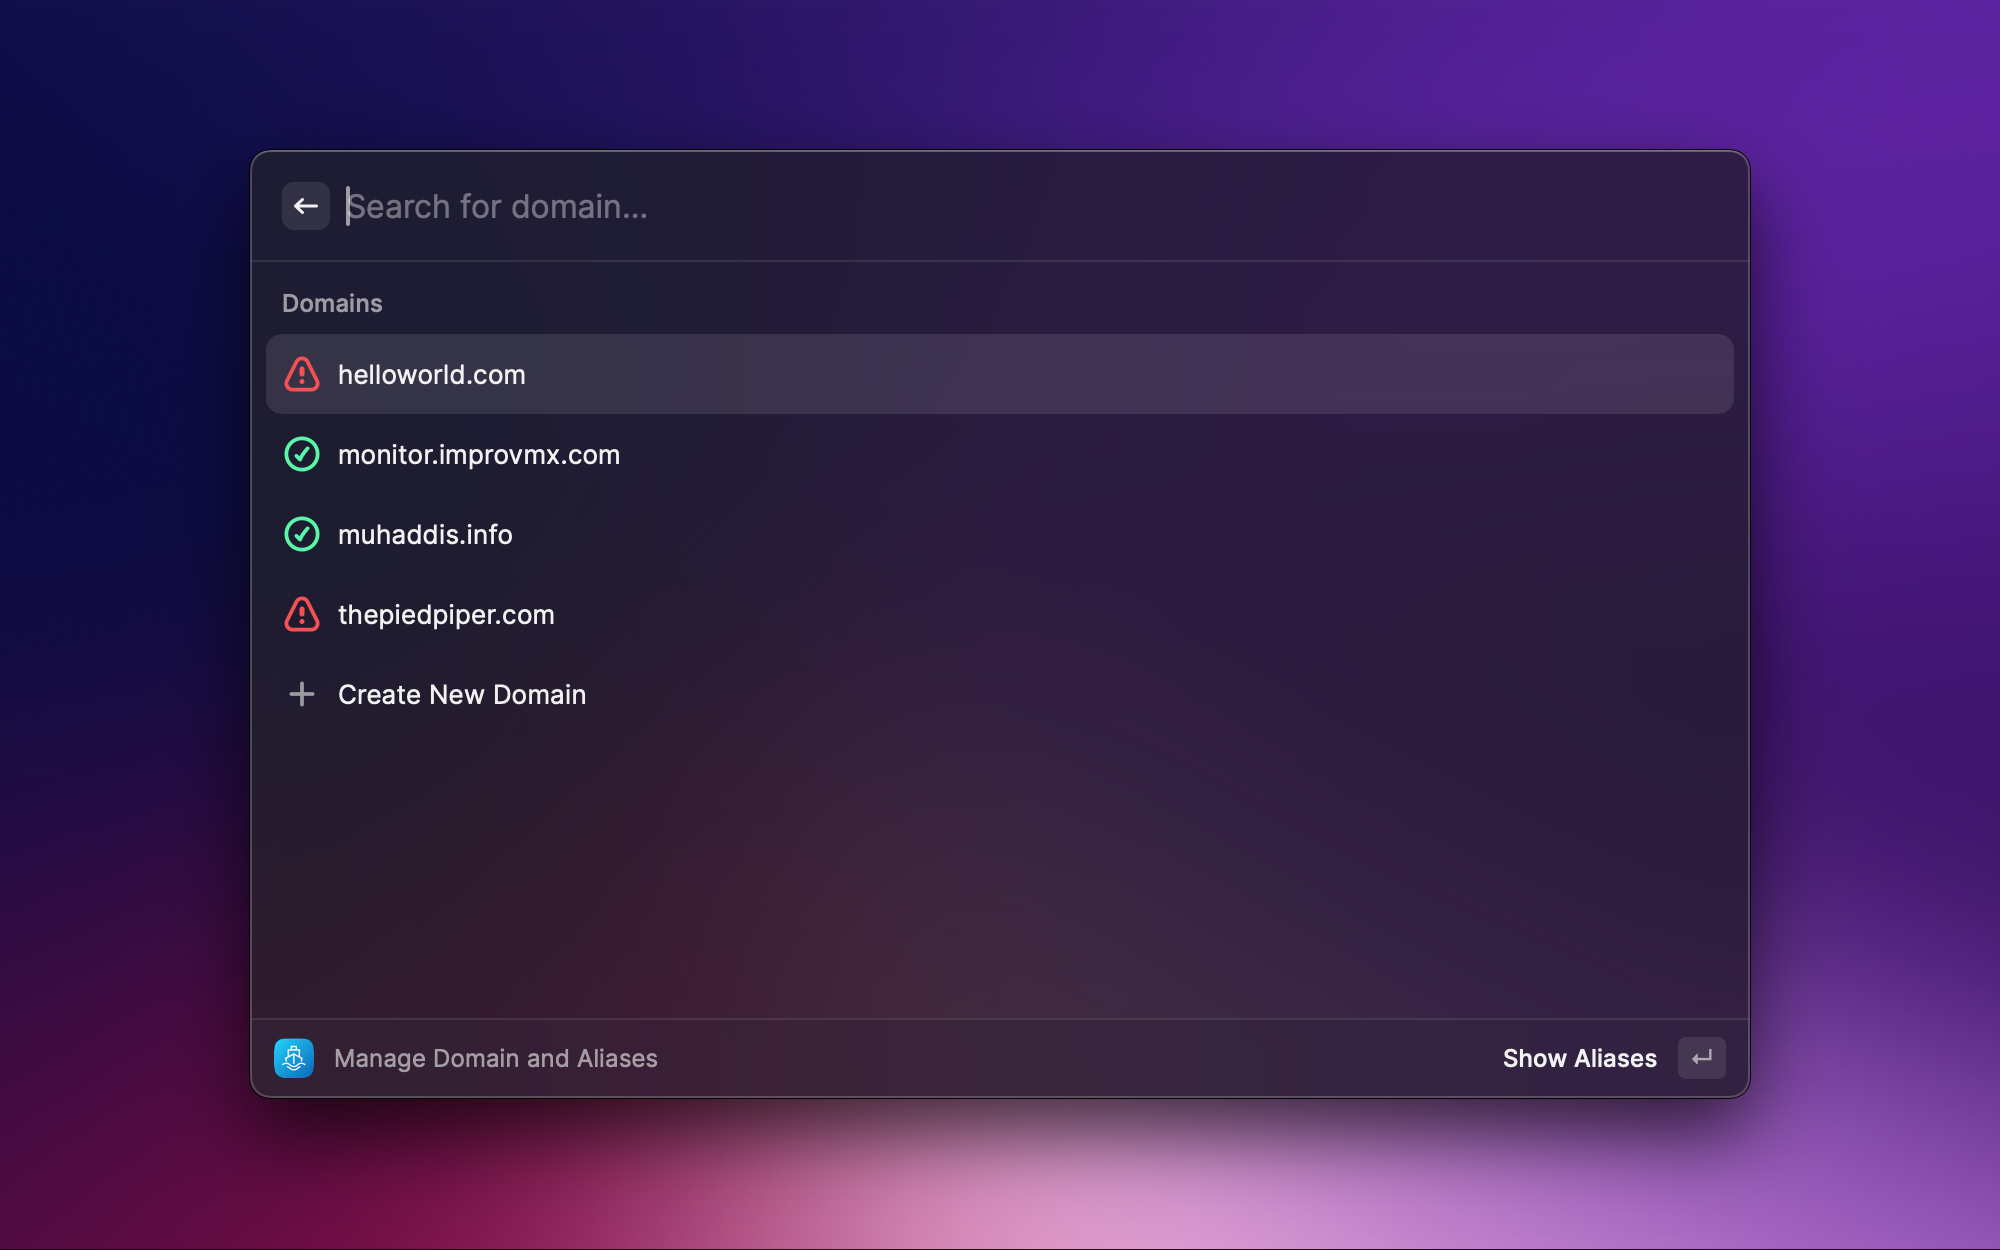
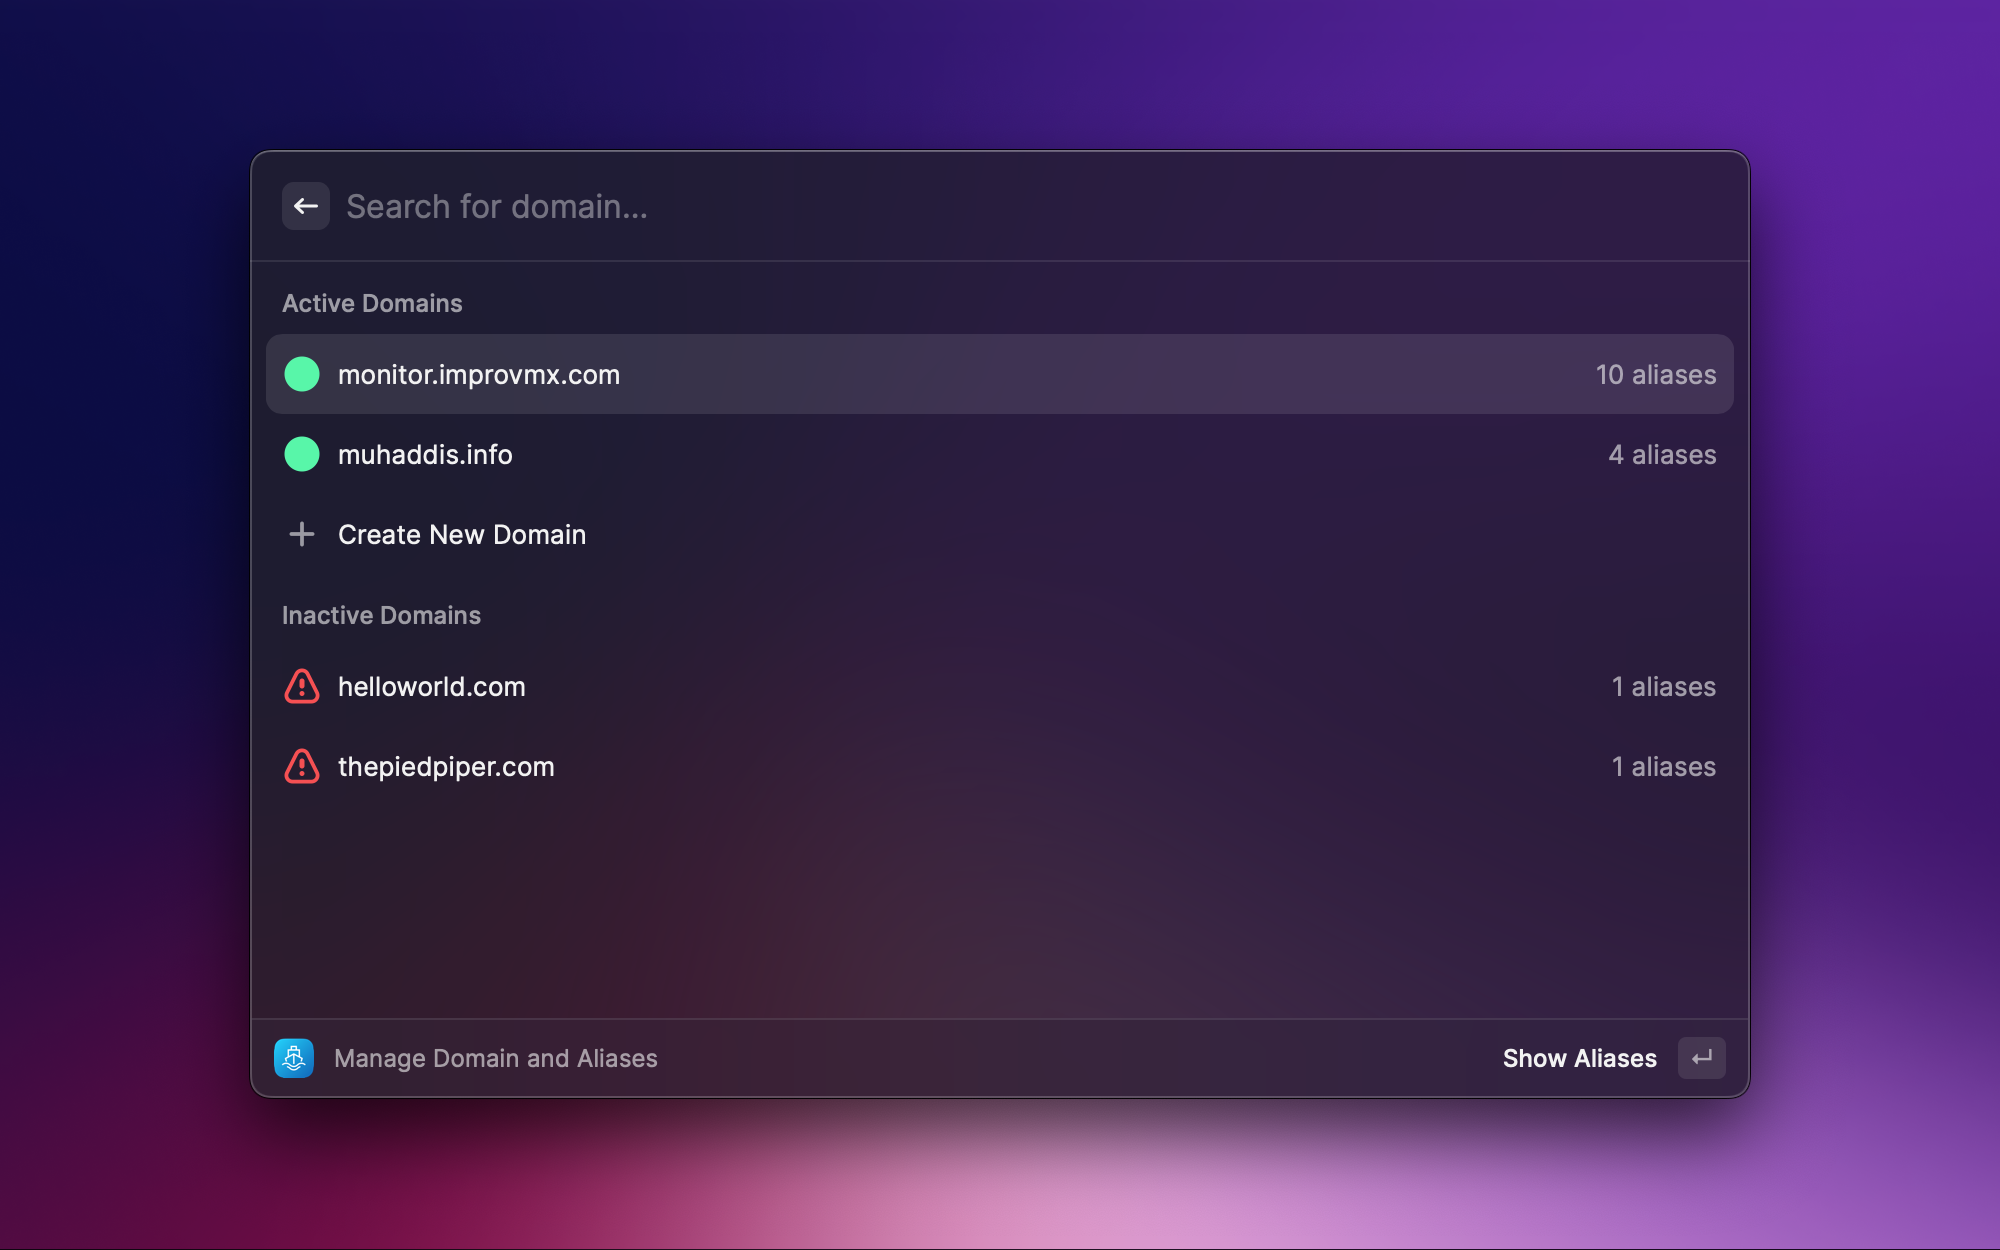
feat: improve interface and experienc

diff --git a/src/manage-domain-and-aliases.tsx b/src/manage-domain-and-aliases.tsx
@@ -21,10 +21,17 @@ interface Preferences {
   api_token: string;
 }
 
+interface Alias {
+  forward: string;
+  alias: string;
+  id: number;
+}
+
 interface Domain {
   display: string;
   banned?: boolean;
   active?: boolean;
+  aliases: Alias[];
 }
 
 interface Alias {
@@ -40,6 +47,7 @@ interface State {
   isRequireUpgrade: boolean;
   aliasView: boolean;
   aliases: Alias[];
+  selectedDomain: string;
 }
 
 export default function CreateMaskedEmail() {
@@ -50,6 +58,7 @@ export default function CreateMaskedEmail() {
       isRequireUpgrade: false,
       aliasView: false,
       aliases: [],
+      selectedDomain: "",
     }),
     API_TOKEN = getPreferenceValues<Preferences>().api_token,
     API_URL = "https://api.improvmx.com/v3/";
@@ -115,7 +124,7 @@ export default function CreateMaskedEmail() {
     }
 
     setState((prevState) => {
-      return { ...prevState, aliasView: true };
+      return { ...prevState, aliasView: true, selectedDomain: domain.display };
     });
 
     try {
@@ -157,20 +166,22 @@ export default function CreateMaskedEmail() {
     />
   ) : !state.aliasView ? (
     <List isLoading={state.domains === undefined} searchBarPlaceholder="Search for domain...">
-      <List.Section title="Domains">
-        {state.domains?.map((domain: Domain) => (
-          <List.Item
-            key={domain.display}
-            title={domain.display}
-            icon={domainIcon(domain)}
-            actions={
-              <ActionPanel>
-                <Action title="Show Aliases" onAction={() => showAliases(domain)} />
-              </ActionPanel>
-            }
-            // detail={<List.Item.Detail markdown={"Domain: **" + domain.display + "**"} />}
-          />
-        ))}
+      <List.Section title="Active Domains">
+        {state.domains
+          ?.filter((domain) => domain.active)
+          .map((domain: Domain) => (
+            <List.Item
+              key={domain.display}
+              title={domain.display}
+              icon={domainIcon(domain)}
+              accessories={[{ text: { value: domain.aliases.length.toString() + " aliases" } }]}
+              actions={
+                <ActionPanel>
+                  <Action title="Show Aliases" onAction={() => showAliases(domain)} />
+                </ActionPanel>
+              }
+            />
+          ))}
         {state.domains && (
           <List.Item
             title="Create New Domain"
@@ -188,14 +199,32 @@ export default function CreateMaskedEmail() {
           />
         )}
       </List.Section>
+      <List.Section title="Inactive Domains">
+        {state.domains
+          ?.filter((domain) => !domain.active)
+          .map((domain: Domain) => (
+            <List.Item
+              key={domain.display}
+              title={domain.display}
+              icon={domainIcon(domain)}
+              accessories={[{ text: { value: domain.aliases.length.toString() + " aliases" } }]}
+              actions={
+                <ActionPanel>
+                  <Action title="Show Aliases" onAction={() => showAliases(domain)} />
+                </ActionPanel>
+              }
+            />
+          ))}
+      </List.Section>
     </List>
   ) : (
-    <List isLoading={state.aliases === undefined} searchBarPlaceholder="Search for aliases...">
+    <List isLoading={state.aliases.length === 0} searchBarPlaceholder="Search for alias...">
       <List.Section title="Aliases">
         {state.aliases?.map((alias: Alias) => (
           <List.Item
             key={alias.alias}
-            title={alias.alias}
+            title={alias.alias + "@" + state.selectedDomain}
+            accessories={[{ text: { value: alias.forward } }]}
             actions={
               <ActionPanel>
                 <Action
@@ -207,10 +236,9 @@ export default function CreateMaskedEmail() {
                 />
               </ActionPanel>
             }
-            // detail={<List.Item.Detail markdown={"Forwarding email: **" + alias.forward + "**"} />}
           />
         ))}
-        {state.aliases !== undefined && (
+        {state.aliases.length !== 0 && (
           <List.Item
             title="Create New Alias"
             icon={{ source: Icon.Plus }}

diff --git a/src/create-masked-email-address.tsx b/src/create-masked-email-address.tsx
@@ -22,10 +22,17 @@ interface Preferences {
   default_domain: string;
 }
 
+interface Alias {
+  forward: string;
+  alias: string;
+  id: number;
+}
+
 interface Domain {
   display: string;
   banned?: boolean;
   active?: boolean;
+  aliases: Alias[];
 }
 
 interface State {
@@ -215,26 +222,49 @@ export default function CreateMaskedEmail() {
       }
     />
   ) : (
-    <List isLoading={state.domains === undefined} searchBarPlaceholder="Search for domain..." isShowingDetail>
-      <List.Section title="Domains">
-        {state.domains?.map((domain: Domain) => (
-          <List.Item
-            key={domain.display}
-            title={domain.display}
-            icon={domainIcon(domain)}
-            actions={
-              state.isRequireUpgrade ? (
-                upgradeAction
-              ) : (
-                <ActionPanel>
-                  <Action title="Create a Masked Email Address" onAction={() => handleMaskedEmail(domain)} />
-                  <Action title="Set default domain " onAction={openCommandPreferences} />
-                </ActionPanel>
-              )
-            }
-            // detail={<List.Item.Detail markdown={"Create masked email using **" + domain.display + "**"} />}
-          />
-        ))}
+    <List isLoading={state.domains === undefined} searchBarPlaceholder="Search for domain...">
+      <List.Section title="Active Domains">
+        {state.domains
+          ?.filter((domain) => domain.active)
+          .map((domain) => (
+            <List.Item
+              key={domain.display}
+              title={domain.display}
+              icon={domainIcon(domain)}
+              accessories={[{ text: { value: domain.aliases.length.toString() + " aliases" } }]}
+              actions={
+                state.isRequireUpgrade ? (
+                  upgradeAction
+                ) : (
+                  <ActionPanel>
+                    <Action title="Create a Masked Email Address" onAction={() => handleMaskedEmail(domain)} />
+                    <Action title="Set default domain" onAction={openCommandPreferences} />
+                  </ActionPanel>
+                )
+              }
+            />
+          ))}
+      </List.Section>
+      <List.Section title="Inactive Domains">
+        {state.domains
+          ?.filter((domain) => !domain.active)
+          .map((domain) => (
+            <List.Item
+              key={domain.display}
+              title={domain.display}
+              icon={domainIcon(domain)}
+              actions={
+                state.isRequireUpgrade ? (
+                  upgradeAction
+                ) : (
+                  <ActionPanel>
+                    <Action title="Create a Masked Email Address" onAction={() => handleMaskedEmail(domain)} />
+                    <Action title="Set default domain" onAction={openCommandPreferences} />
+                  </ActionPanel>
+                )
+              }
+            />
+          ))}
       </List.Section>
     </List>
   );

diff --git a/src/utils.ts b/src/utils.ts
@@ -65,7 +65,7 @@ const domainIcon = (domain: Domain) => {
   if (domain.banned || domain.active == false) {
     return { source: Icon.ExclamationMark, tintColor: Color.Red };
   } else {
-    return { source: Icon.CheckCircle, tintColor: Color.Green };
+    return { source: Icon.CircleFilled, tintColor: Color.Green };
   }
 };
 

diff --git a/README.md b/README.md
@@ -28,7 +28,7 @@ Create a new alias for a domain.
 
 Create SMTP credentials for a domain.
 
-### Open the ImprovMX dashboard to manage domains and aliases
+### Open Dashboard
 
 Open the ImprovMX dashboard in the default browser to manage domains and aliases.
 
